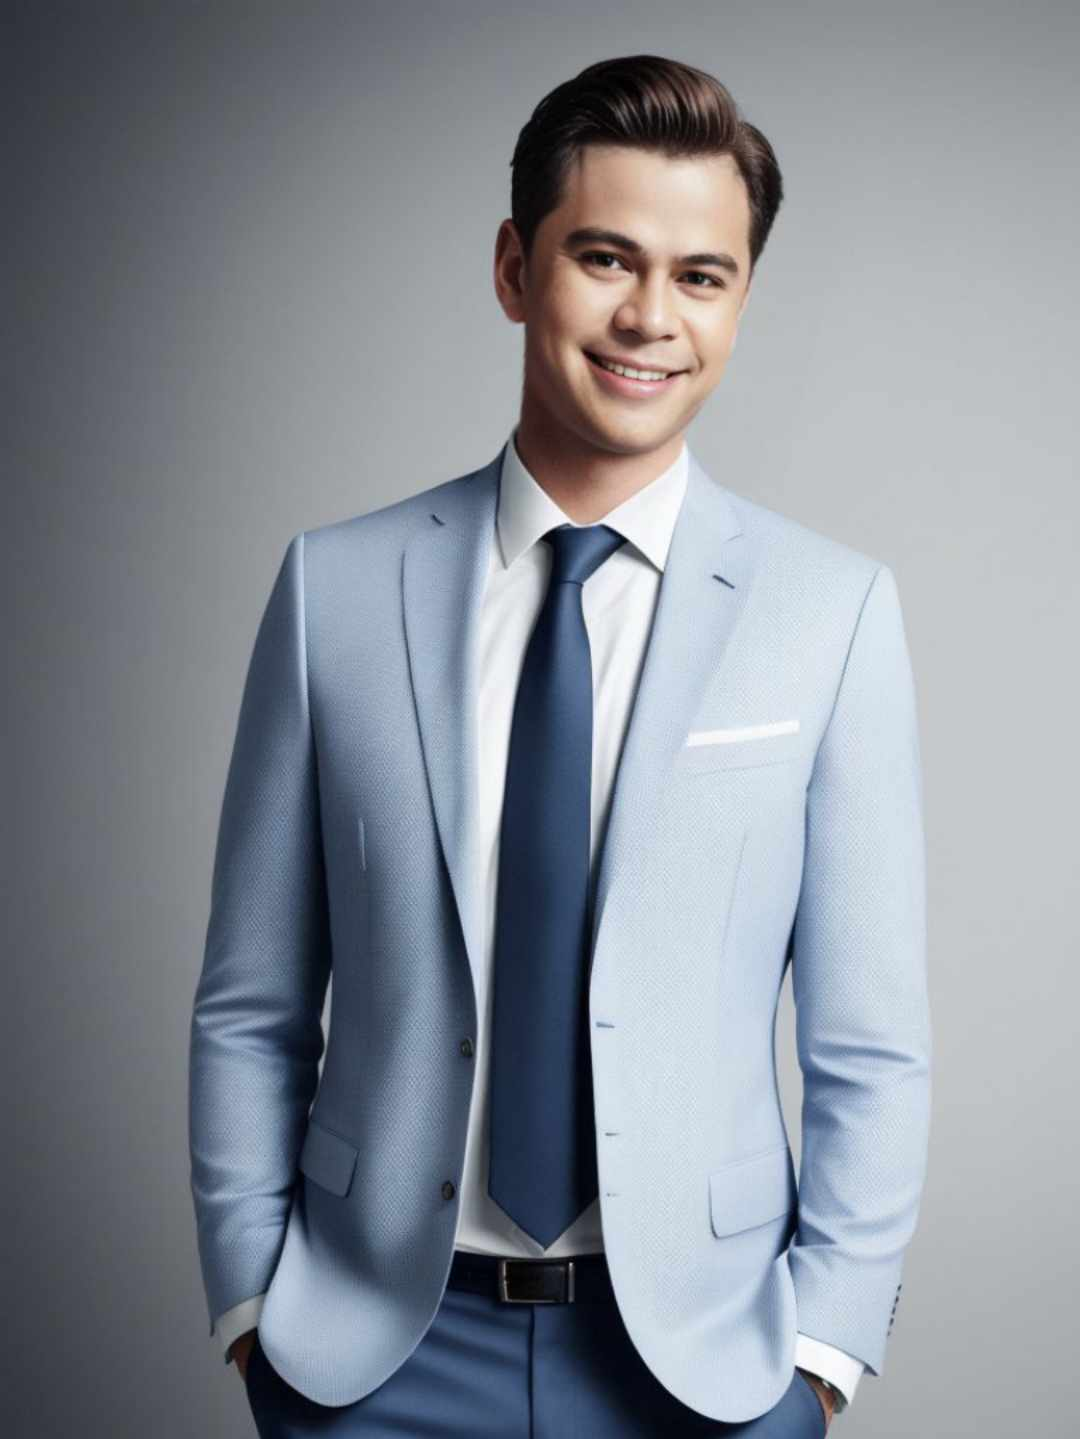
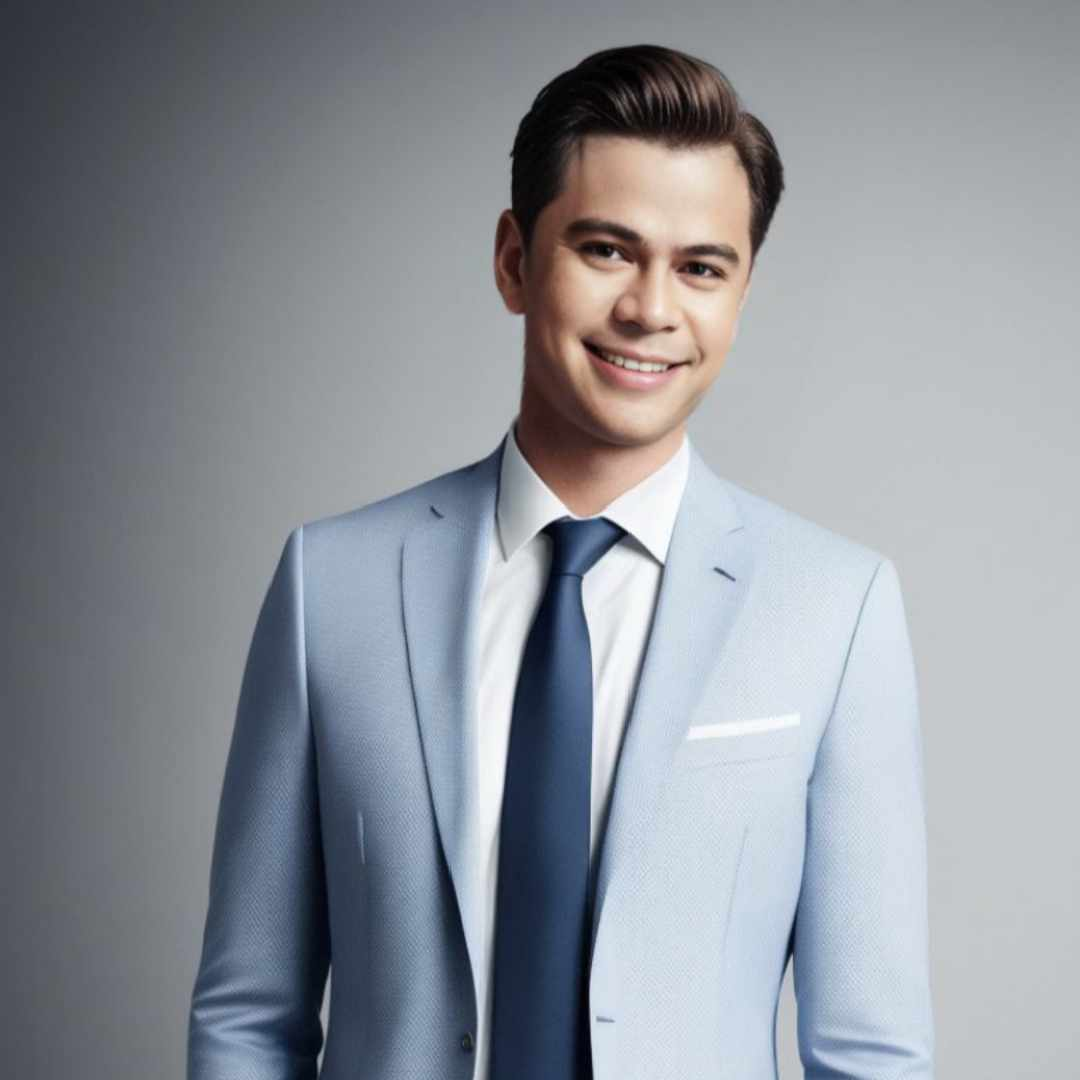
commit

diff --git a/index.html b/index.html
@@ -89,12 +89,12 @@
                     </div>
                 </div>
                 <div class="member-card">
-                    <img src="person1.png" alt="Person 1" width="265" height="260">
-                    <h3>AR</h3>
+                    <img src="ar.jpg" alt="Person 1" width="265" height="260">
+                    <h3>Algie Ralph Lapiz</h3>
                     <p>Position: Developer</p>
                     <div class="member-details">
                         <h3>Information</h3>
-                        <p></p>
+                        <p>From SARANGANI PROVINCE</p>
                     </div>
                 </div>
                 <div class="member-card">
@@ -109,7 +109,7 @@
         </section>
         <section id="section2">
             <div class="logo-container">
-                <a href="https://github.com/ardevazsign/teamproject02" aria-label="link to Github" class="logo" target="_blank" rel="noopener noreferrer nofollow">
+                <a href="https://github.com/rlmgtr/GoIT-JS-teamProject-WeatherAPP-Group3.git" aria-label="link to Github" class="logo" target="_blank" rel="noopener noreferrer nofollow">
                     <img src="movie-svgrepo-com.svg" alt="WEATHER APP" width="50" height="50">
                 </a>
             </div>
